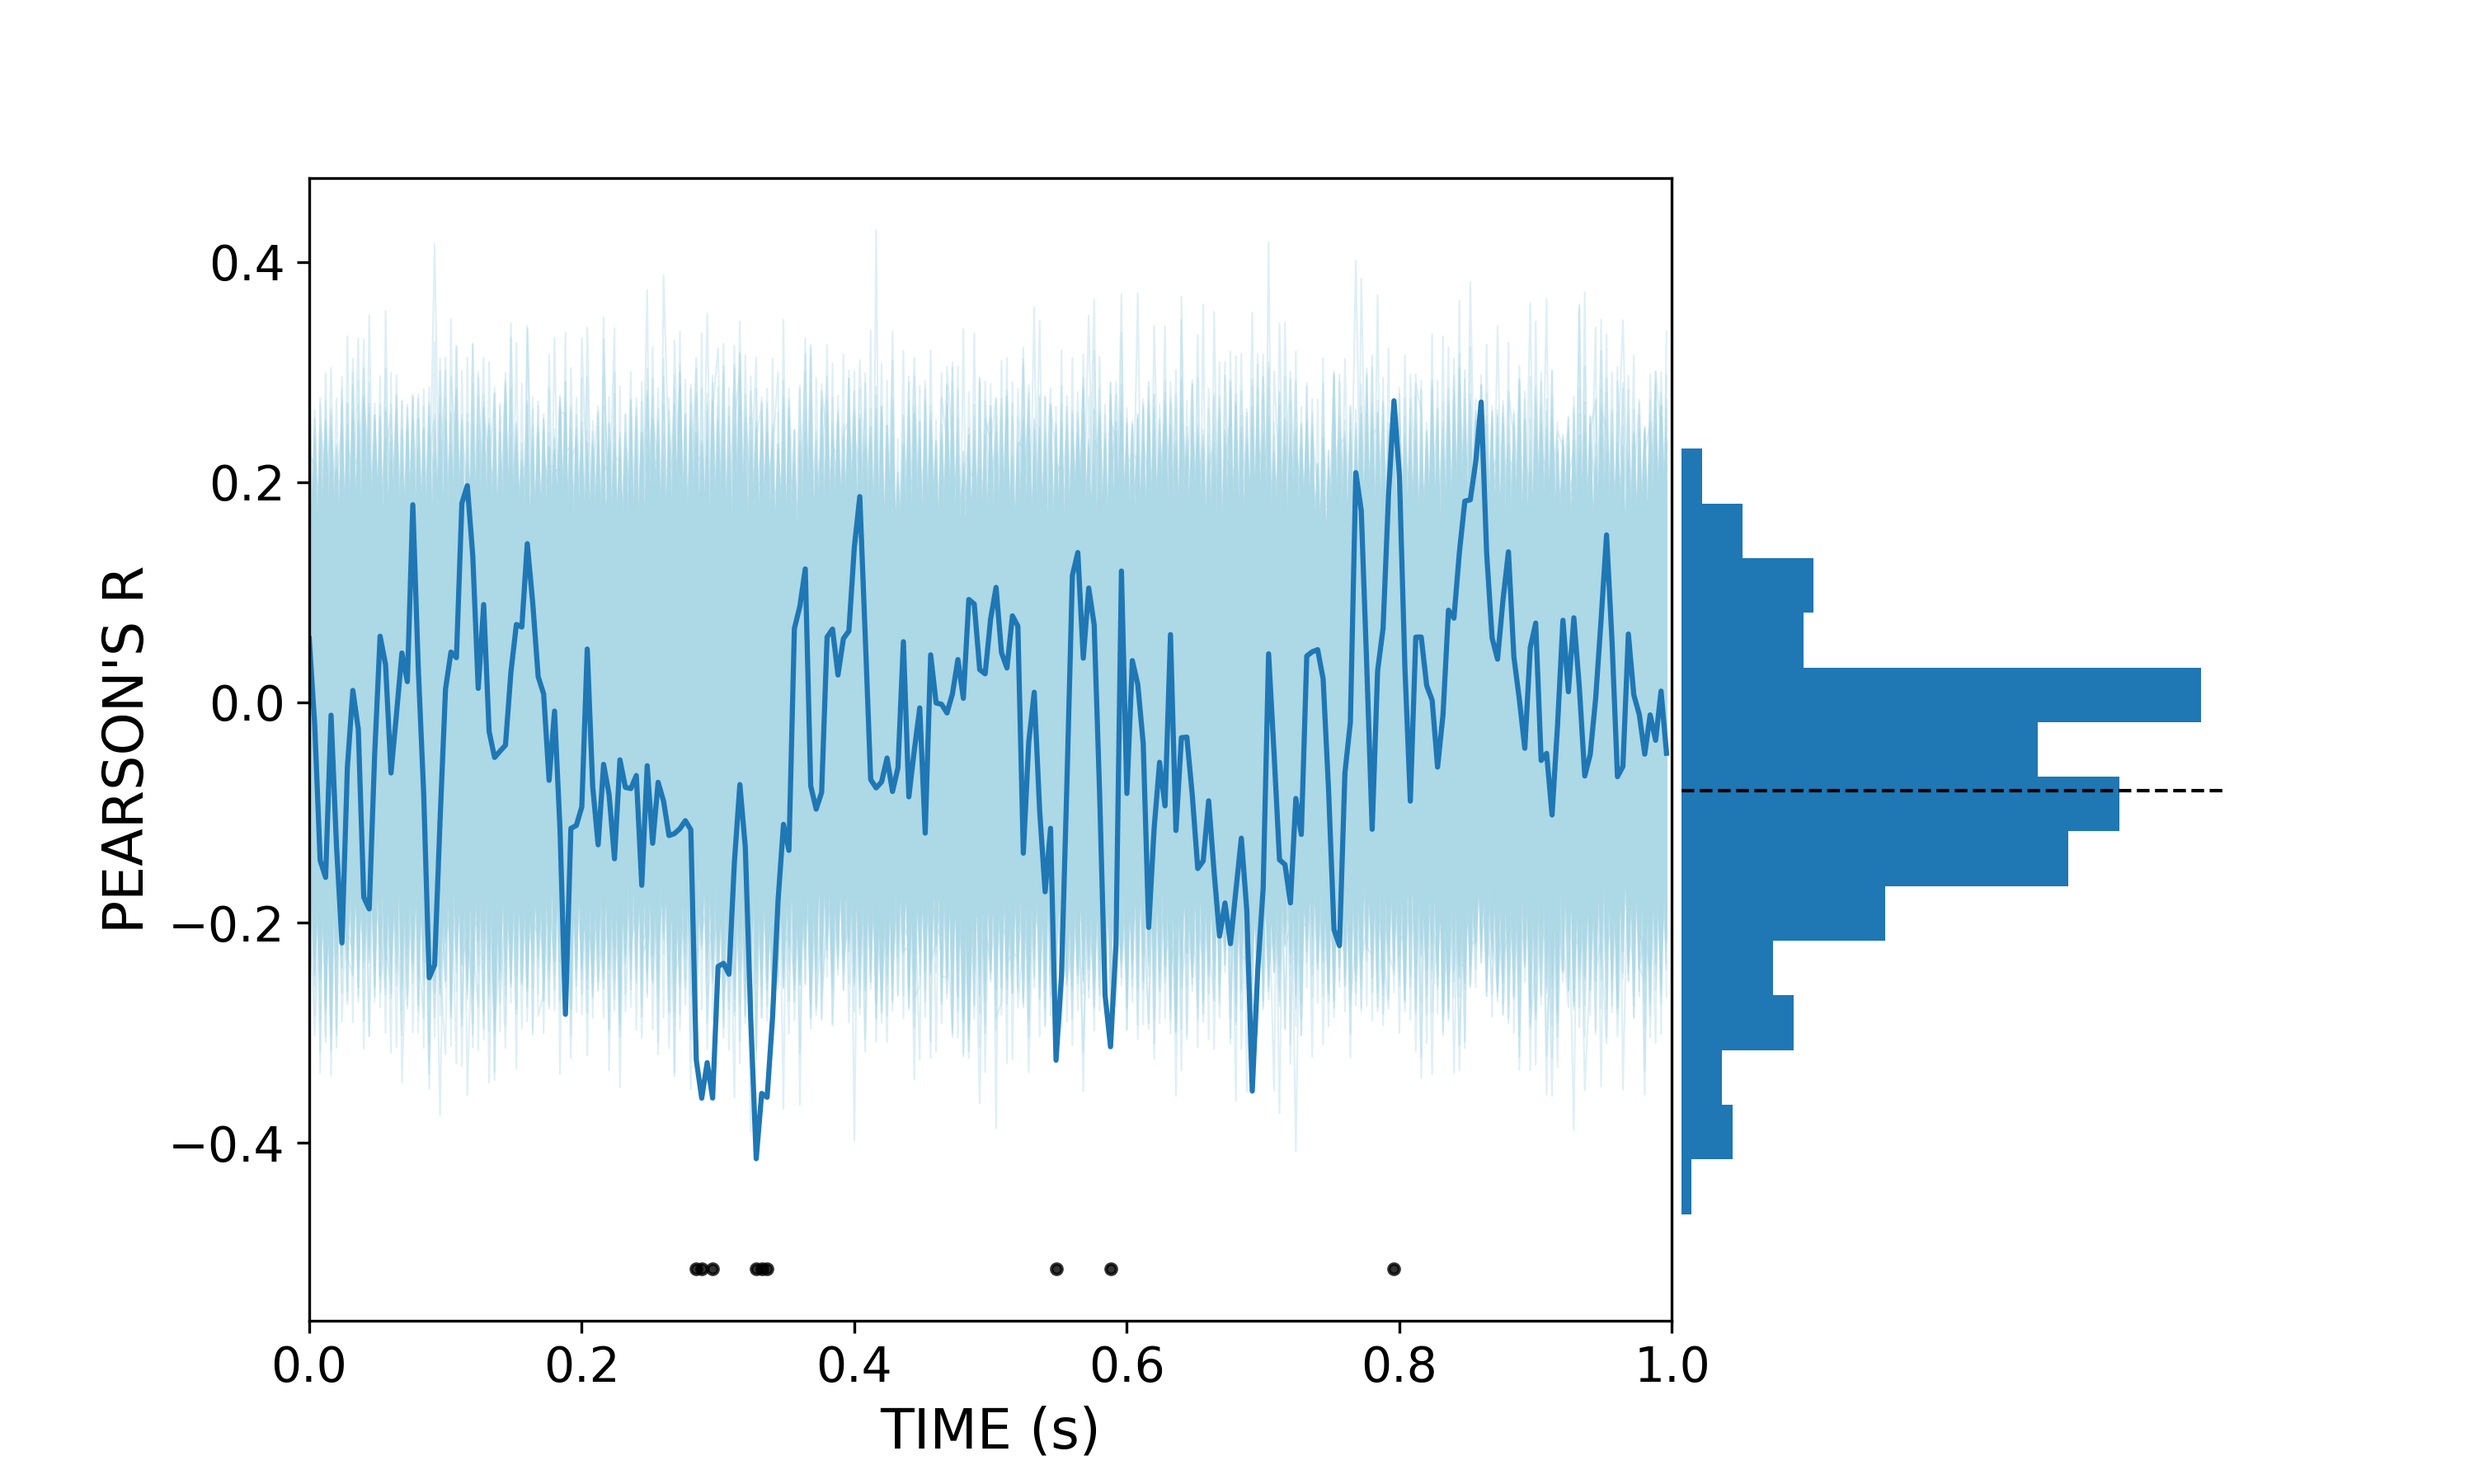
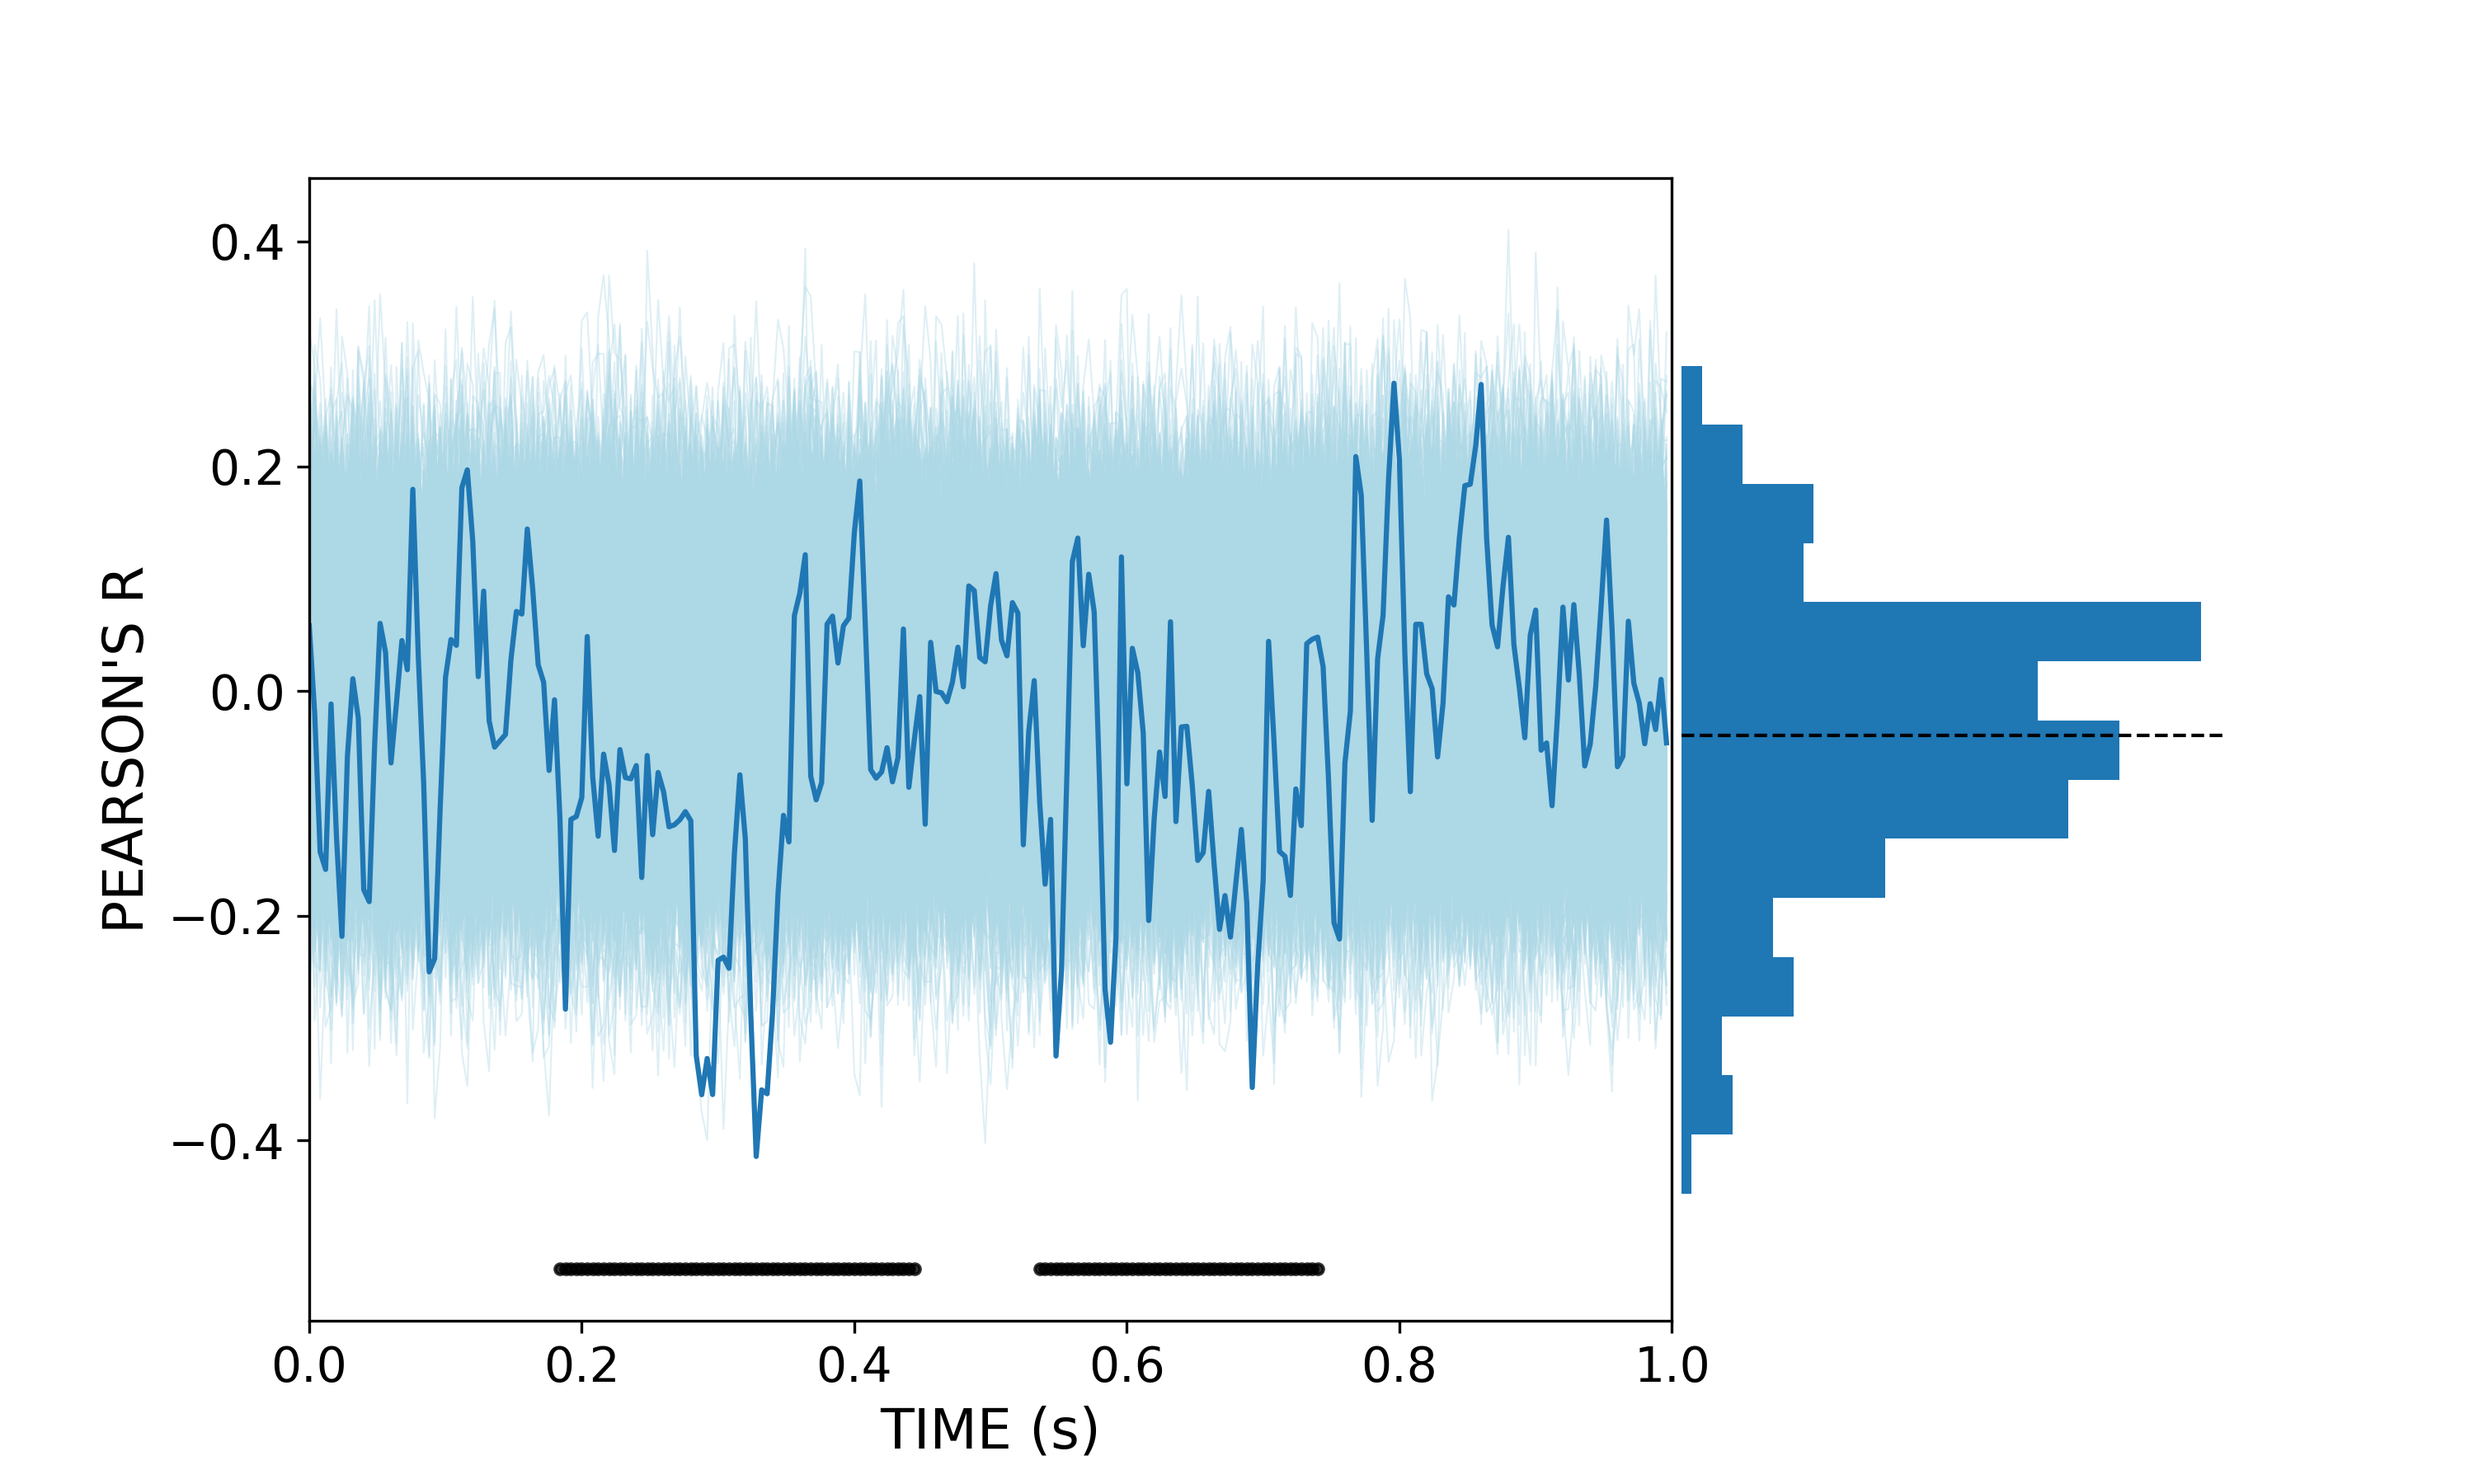
Add permutation cluster test for correlation significance

diff --git a/decoding/cross_decoding/dist_acc_corr.py b/decoding/cross_decoding/dist_acc_corr.py
@@ -9,6 +9,7 @@ import matplotlib.pyplot as plt
 from pathlib import Path
 from scipy.stats import pearsonr
 from pandas import to_datetime
+from mne.stats import permutation_cluster_test
 
 # set parameters for all plots
 plt.rcParams['font.family'] = 'sans-serif'
@@ -80,7 +81,6 @@ def plot_corr(ax, corr, pval, alpha = 0.05, color = "lightblue", y_lim=None):
     ax.set_xlim([0, 250])
 
 
-
 def plot_hist_of_corr(ax, corr, bins, color="lightblue", y_lim=(-0.5, 0.5)):
     ax.hist(corr, bins = bins, color=color, orientation="horizontal")
     ax.set_axis_off()
@@ -90,6 +90,31 @@ def plot_hist_of_corr(ax, corr, bins, color="lightblue", y_lim=(-0.5, 0.5)):
 
     # limits
     ax.set_ylim(y_lim)
+
+def permute_x_y(X, y, n_perm):
+     # array for storing actual correlation
+    corrs = np.zeros(X.shape[1])
+
+    # initialize numpy array to store all permutations
+    permutations_corr = np.zeros((n_perm, len(X[0])))
+
+    # loop over time points
+    for t in range(X.shape[1]):
+        # actual correlation
+        corrs[t], _ = pearsonr(X[:, t], y)
+
+    # loop over all permutations
+    for n in range(n_perm):
+        # permute y
+        perm_y = np.random.permutation(y)
+        for t in range(X.shape[1]):
+            # calculate correlation
+            perm_corr, _ = pearsonr(X[:, t], perm_y)
+
+            # store permutation correlation
+            permutations_corr[n, t] = perm_corr
+
+    return corrs, permutations_corr
 
 
 def permutation_test(X, y, n_perm):
@@ -101,27 +126,7 @@ def permutation_test(X, y, n_perm):
     X : numpy array
         Array of shape (n_sessionpairs, n_timepoints) containing the decoding accuracies
     """
-    # array for storing actual correlation
-    corrs = np.zeros(X.shape[1])
-
-    # initialize numpy array to store all permutations
-    permutations_corr = np.zeros((n_perm, len(X[0])))
-
-    # loop over time points
-    for t in range(X.shape[1]):
-        # actual correlation
-        corrs[t], _ = pearsonr(X[:, t], y)
-
-        # loop over all permutations
-        for n in range(n_perm):
-            # permute y
-            perm_y = np.random.permutation(y)
-
-            # calculate correlation
-            perm_corr, _ = pearsonr(X[:, t], perm_y)
-
-            # store permutation correlation
-            permutations_corr[n, t] = perm_corr
+    corrs, permutations_corr = permute_x_y(X, y, n_perm)
 
     pvals = np.zeros(X.shape[1])
     
@@ -131,7 +136,25 @@ def permutation_test(X, y, n_perm):
         
     return corrs, permutations_corr, pvals
 
-def plot_corr_hist_cond(acc, save_path = None, corr_color="C0", perm_color="lightblue", alpha=0.05):
+def cluster_permutation_test_mne(X, y, n_perm):
+    """
+    Uses the MNE python function to conduct a cluster permutation test
+    """
+
+    corrs, permutations_corr = permute_x_y(X, y, n_perm)
+
+    # reshape corrs
+    corrs = corrs.reshape(1, -1)
+    
+    # calculate p-value
+    T_obs, clusters, cluster_p_values, H0 = permutation_cluster_test(
+        [corrs, permutations_corr], 
+        n_permutations=n_perm, 
+        threshold=0.05)
+    
+    return corrs, permutations_corr, clusters, cluster_p_values
+    
+def plot_corr_hist_cond(acc, save_path = None, corr_color="C0", perm_color="lightblue", alpha=0.05, cluster=False, n_perm=1000):
 
     # prep x and y
     dist = get_distance_matrix([0, 0, 0, 0, 0, 0, 0, 1, 1, 1, 1])
@@ -140,15 +163,35 @@ def plot_corr_hist_cond(acc, save_path = None, corr_color="C0", perm_color="ligh
     X, y = prep_x_y(acc, dist)
 
     # permutation test to see if correlation is significant
-    n_perm = 1000
-    corr, all_perm, pvals = permutation_test(X, y, n_perm)
+    if not cluster:
+        corr, all_perm, pvals = permutation_test(X, y, n_perm)
+    else:
+        corr, all_perm, clusters, pvals_tmp = cluster_permutation_test_mne(X, y, n_perm)
+        
+        # reshape corr
+        corr = corr.reshape(-1)
+
+        # get indices of significant clusters
+        sig_clusters_idx = np.where(pvals_tmp < alpha)[0]
+
+        # get indices of significant time points
+        try: 
+            sig_timepoints = np.concatenate([clusters[i][0] for i in sig_clusters_idx])
+        except:
+            sig_timepoints = []
+    
+        # get pvals
+        pvals = np.ones(X.shape[1])
+
+        # set pvals of significant time points to 0
+        pvals[sig_timepoints] = 0
+
 
     # set up figure
     gs_kw = dict(width_ratios=[1, 0.4], height_ratios=[1], wspace=0.01, hspace=0.3)
     fig, ax = plt.subplots(1, 2, figsize=(10, 6), dpi=300, gridspec_kw=gs_kw)
 
     bin_range = (-0.5, 0.5)
-
     bins = np.linspace(bin_range[0], bin_range[1], 20)
 
     # plot permutations
@@ -156,11 +199,12 @@ def plot_corr_hist_cond(acc, save_path = None, corr_color="C0", perm_color="ligh
         ax[0].plot(perm, color=perm_color, linewidth=0.5, alpha=0.4)
 
     plot_corr(ax[0], corr, pvals, alpha = alpha, color=corr_color)
+    
     # get y limits
     y_lim = ax[0].get_ylim()
 
     # plot histogram of correlations
-    plot_hist_of_corr(ax[1], corr, bins, color=corr_color, y_lim=None)
+    plot_hist_of_corr(ax[1], corr, bins, color=corr_color, y_lim=y_lim)
 
 
     # add y label
@@ -174,7 +218,7 @@ def plot_corr_hist_cond(acc, save_path = None, corr_color="C0", perm_color="ligh
         plt.savefig(save_path)
 
 
-def plot_corr_hist_no_combined(acc, save_path = None, corr_color="C0", perm_color="lightblue", alpha=0.05):
+def plot_corr_hist_no_combined(acc, save_path = None, corr_color="C0", perm_color="lightblue", alpha=0.05, cluster=False, n_perm=1000):
     # only memory
     mem_indices = [7, 8, 9, 10]
     mem_acc = acc[mem_indices, :, :, :][:, mem_indices, :, :]
@@ -213,8 +257,28 @@ def plot_corr_hist_no_combined(acc, save_path = None, corr_color="C0", perm_colo
             X, y = prep_x_y(tmp_acc, dist)
 
             # permutation test to see if correlation is significant
-            n_perm = 1000
-            corr, all_perm, pvals = permutation_test(X, y, n_perm)
+            if not cluster:
+                corr, all_perm, pvals = permutation_test(X, y, n_perm)
+            else:
+                corr, all_perm, clusters, pvals_tmp = cluster_permutation_test_mne(X, y, n_perm)
+                
+                # reshape corr
+                corr = corr.reshape(-1)
+
+                # get indices of significant clusters
+                sig_clusters_idx = np.where(pvals_tmp < alpha)[0]
+
+                # get indices of significant time points
+                try: 
+                    sig_timepoints = np.concatenate([clusters[i][0] for i in sig_clusters_idx])
+                except:
+                    sig_timepoints = []
+            
+                # get pvals
+                pvals = np.ones(X.shape[1])
+
+                # set pvals of significant time points to 0
+                pvals[sig_timepoints] = 0
             
             for perm in all_perm:
                 ax_corr.plot(perm, color=perm_color, linewidth=0.5, alpha=0.4)
@@ -253,16 +317,17 @@ if __name__ == "__main__":
     # output path
     plot_path = path.parents[0] / "plots" 
 
-    alpha = 0.001
-    # plot
-    #plot_corr_hist(acc = acc, save_path = plot_path / "corr_acc_dist.png")
+    alpha = 0.05
+
     plot_corr_hist_no_combined(
         acc = acc, 
         save_path = plot_path / "corr_acc_dist_no_combined.png",
-        alpha = alpha)
+        alpha = alpha,
+        cluster=True)
 
     plot_corr_hist_cond(
         acc, 
         save_path=plot_path / "corr_acc_dist_cond.png",
-        alpha = alpha
+        alpha = alpha,
+        cluster=True
         )
